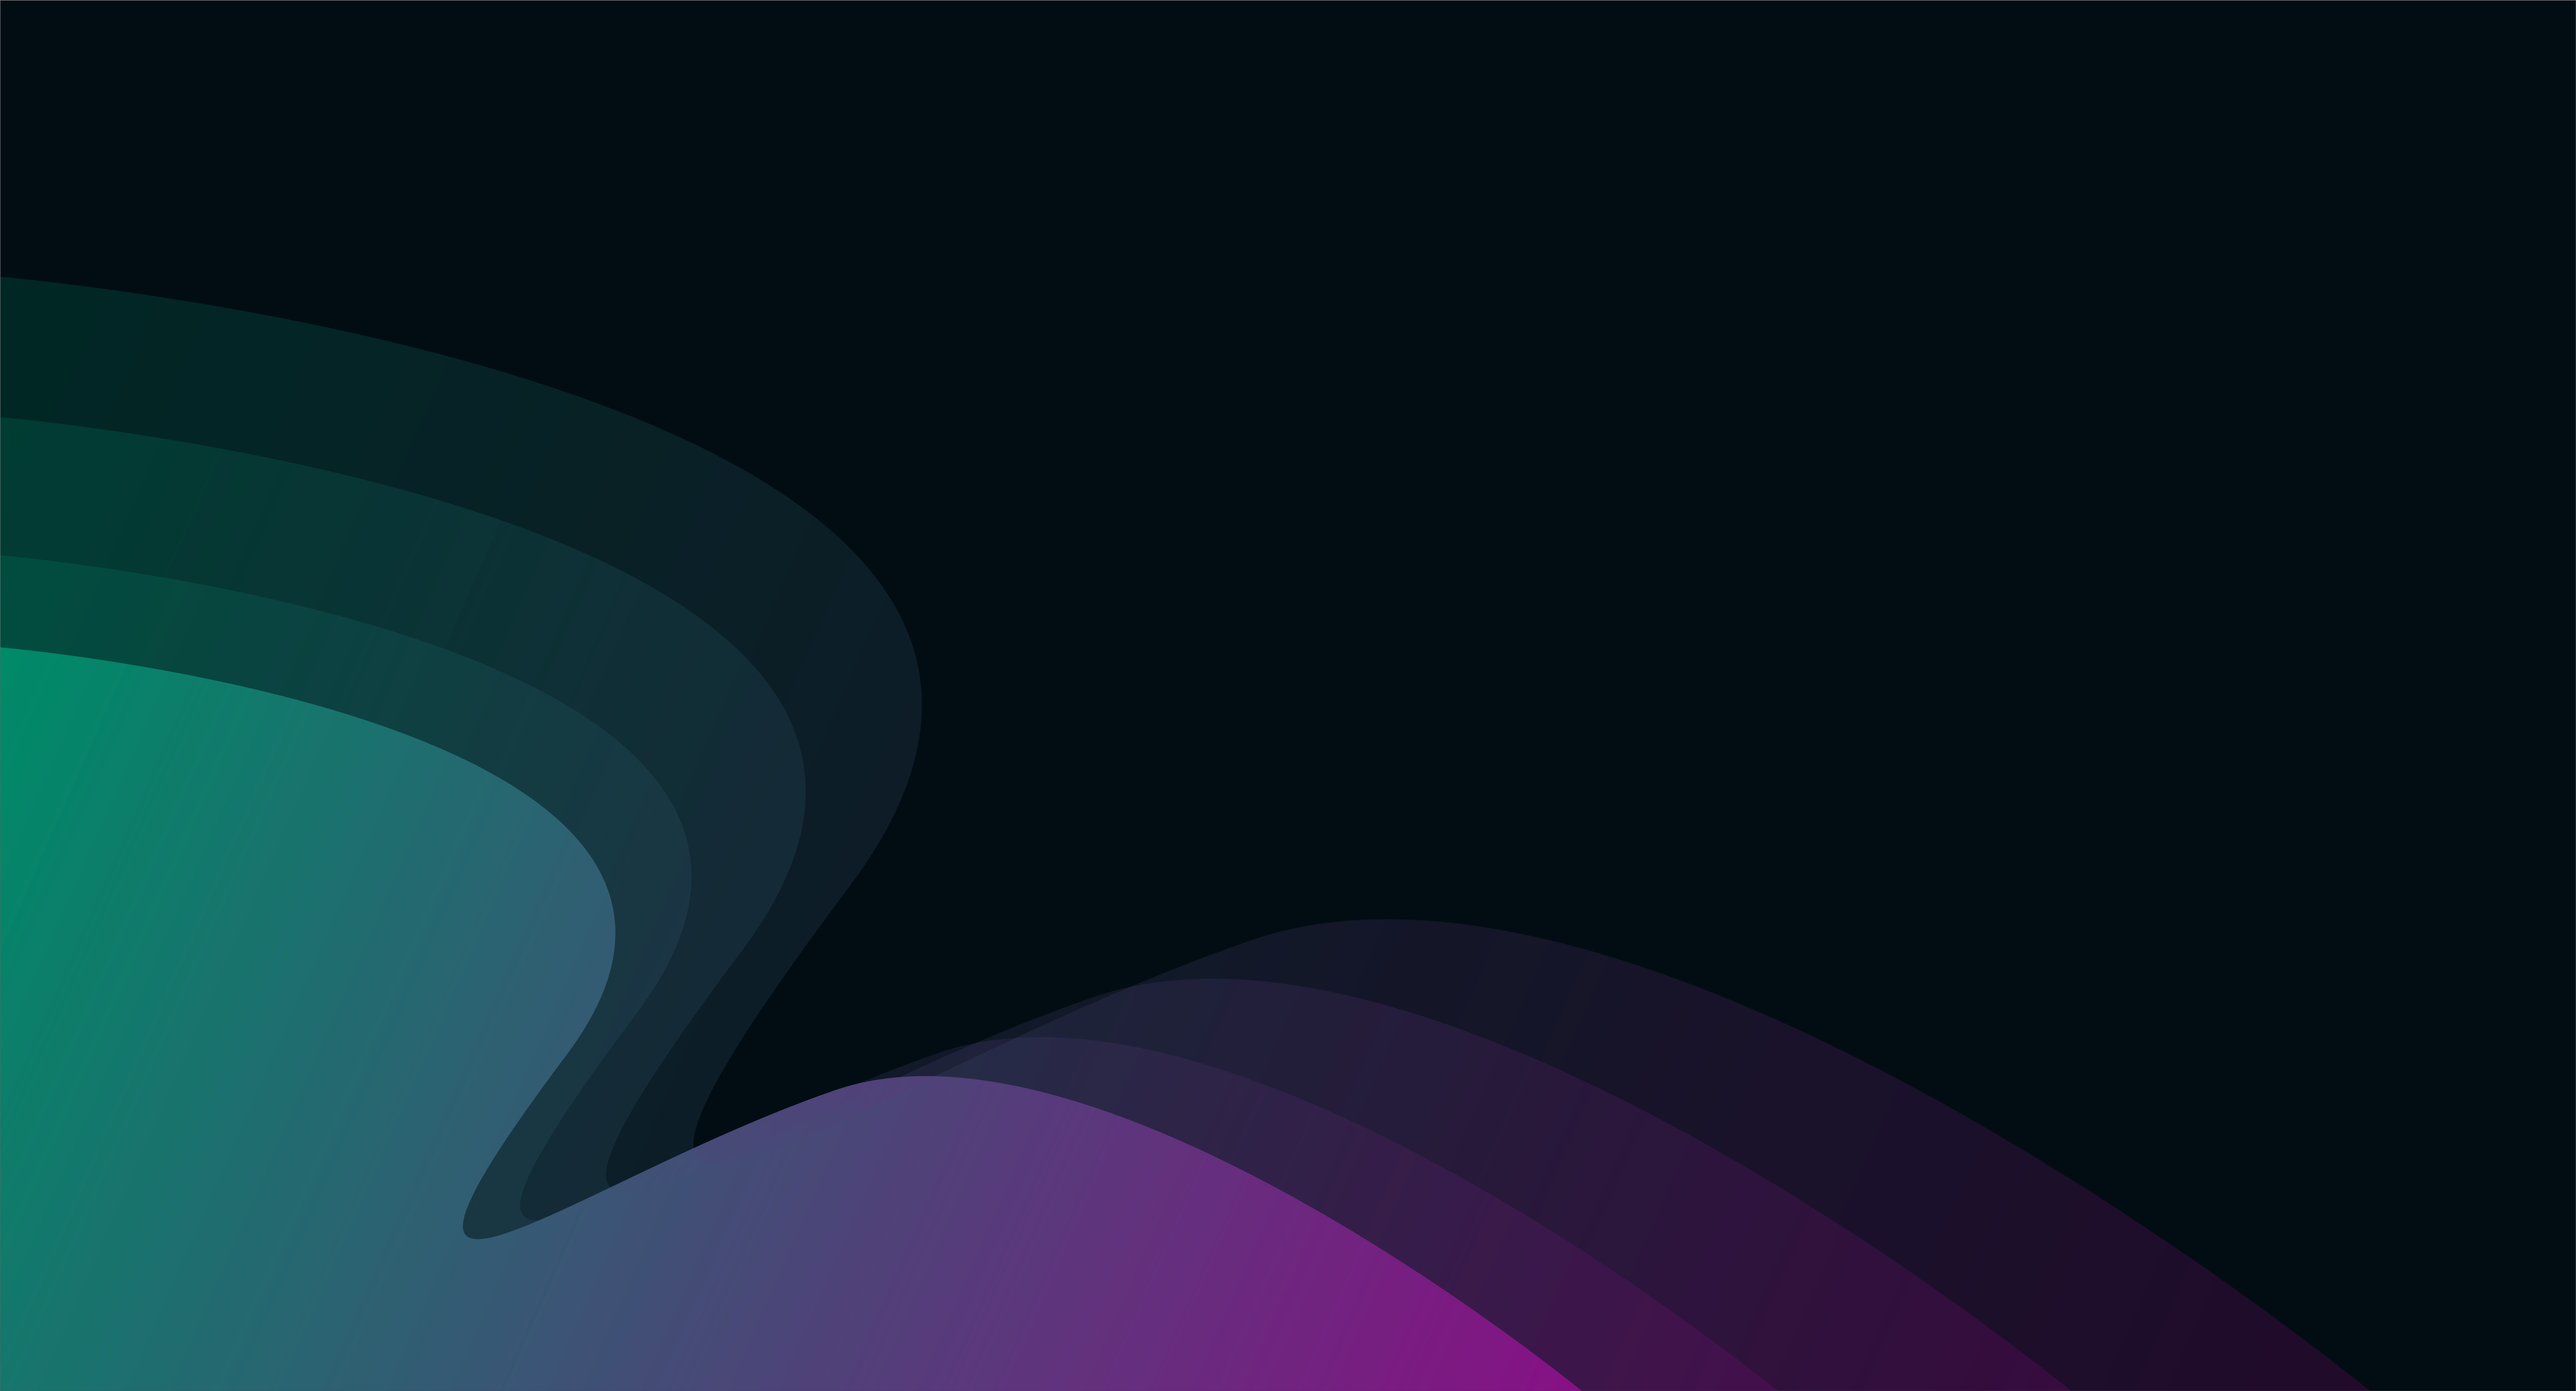
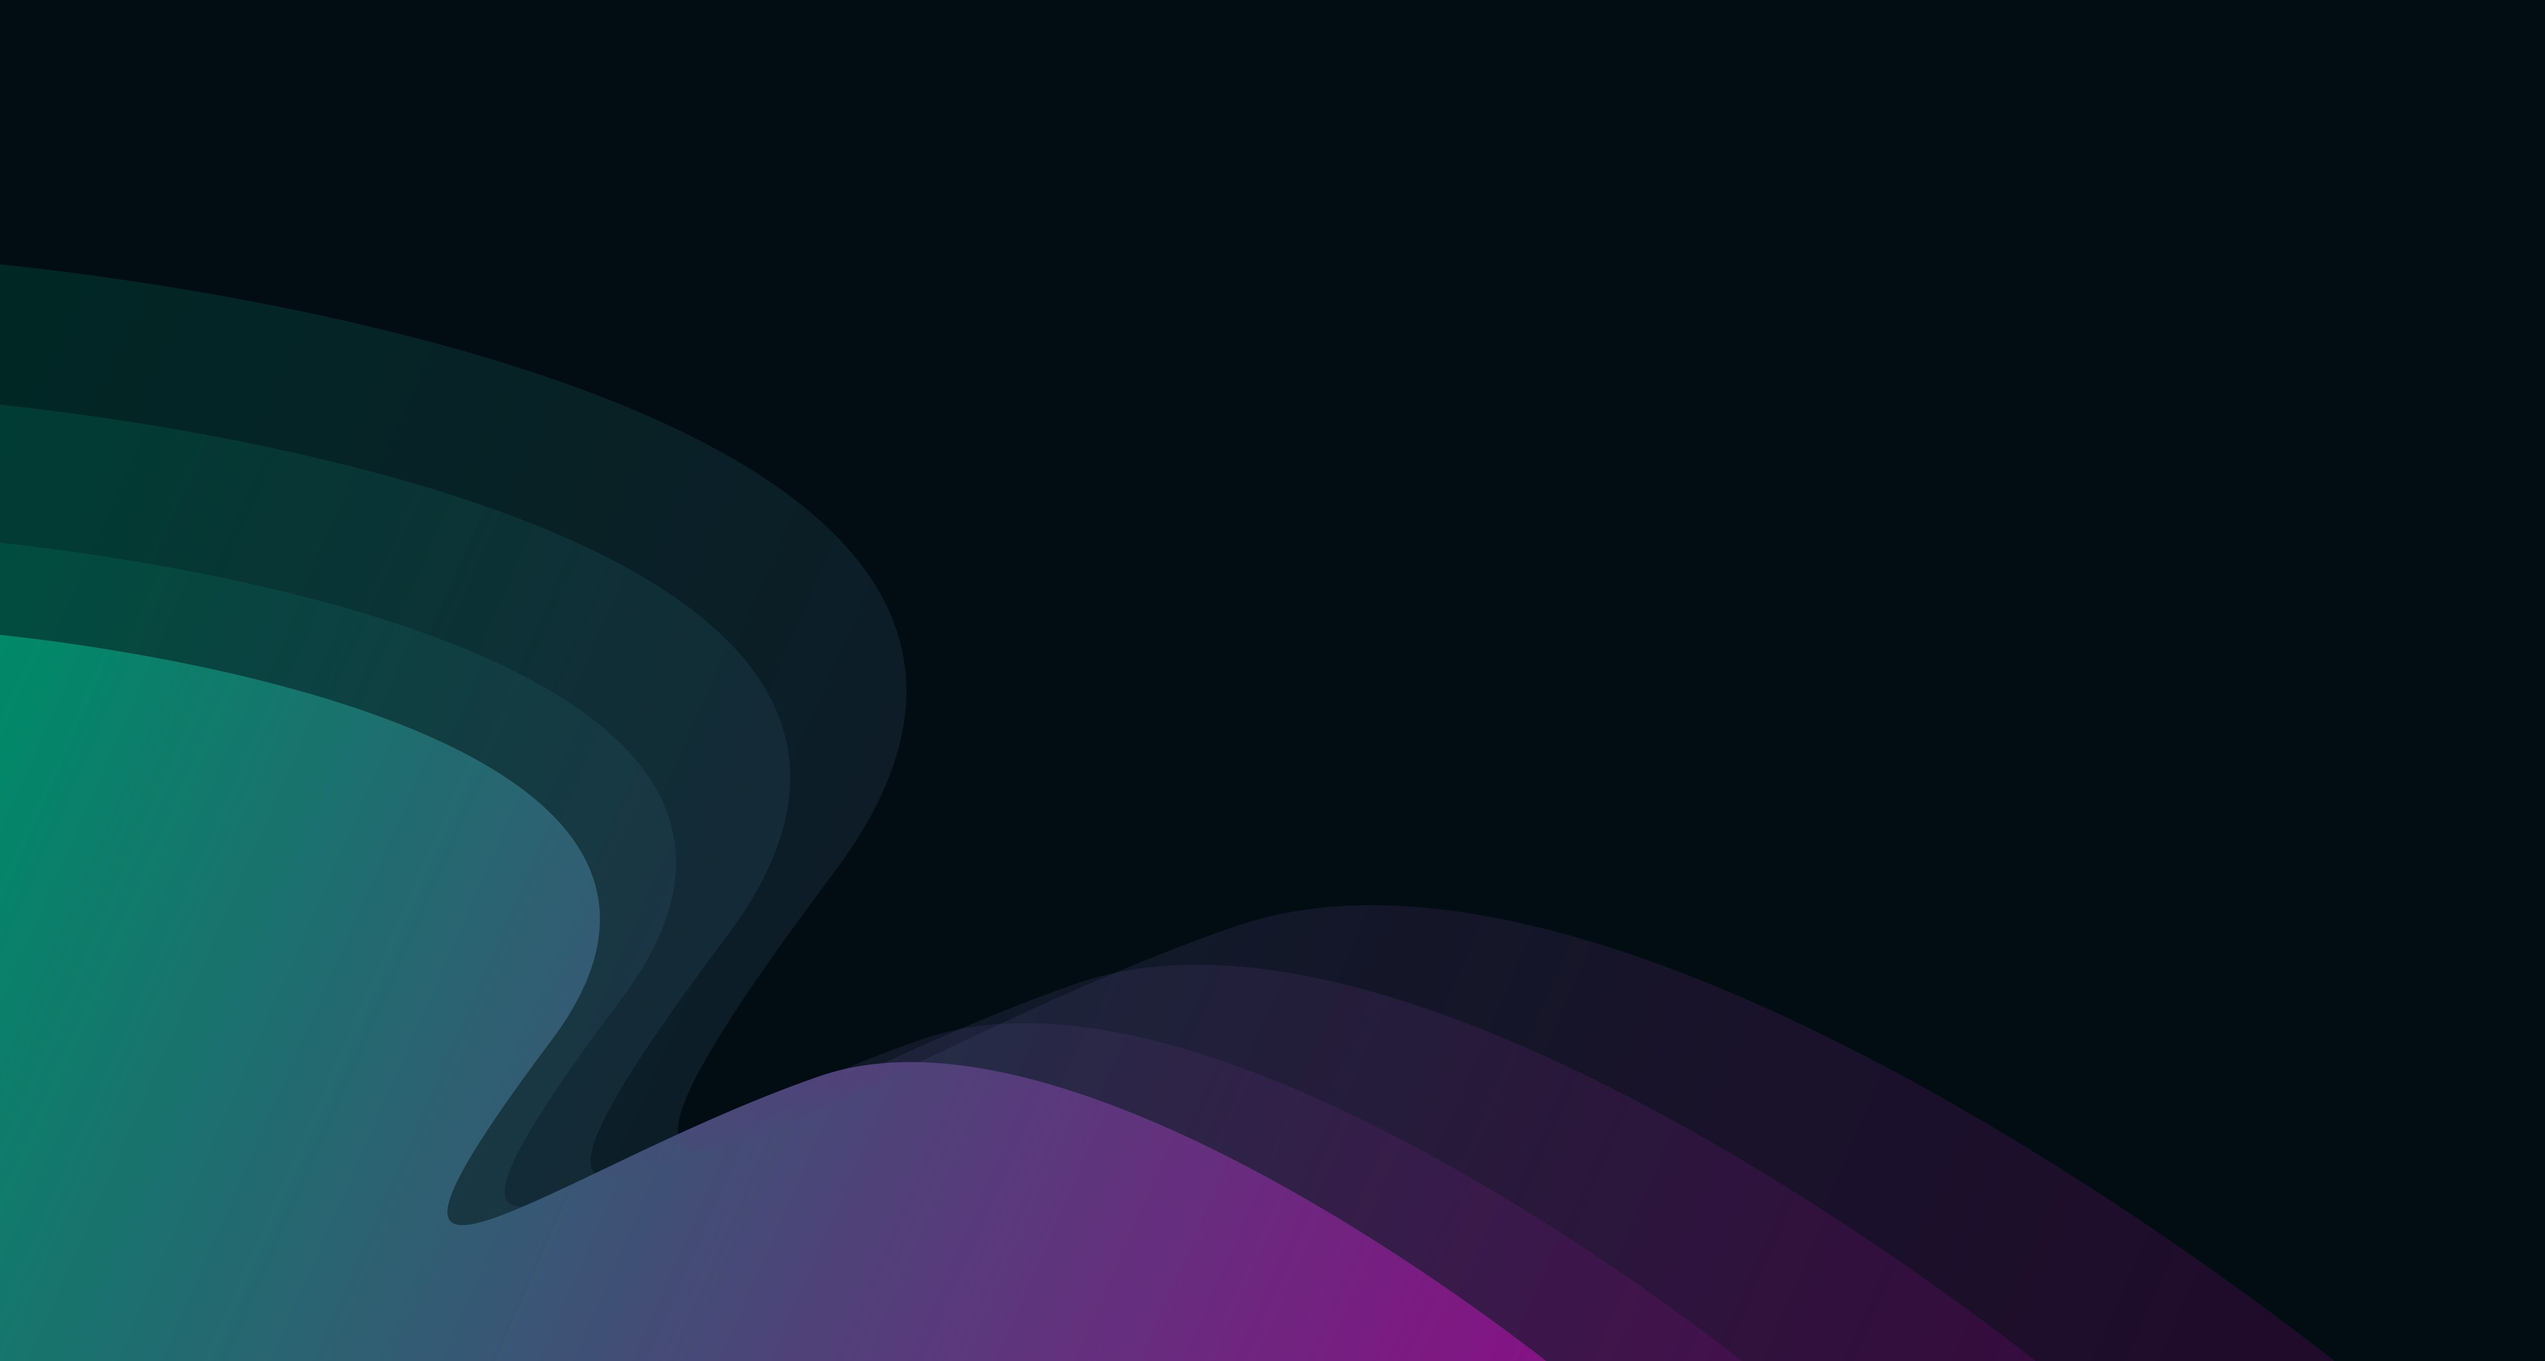
changes

diff --git a/preproc.scss b/preproc.scss
@@ -21,8 +21,8 @@ body {
     background-image: url(bg.jpg);
     background-repeat: no-repeat;
     background-position: bottom;
-    // background-size: cover;
-    // background-attachment: fixed;
+    background-size: cover;
+    background-attachment: fixed;
     min-height: 100vh;
 }
 

diff --git a/preprocstlye.css b/preprocstlye.css
@@ -3,6 +3,8 @@ body {
   background-image: url(bg.jpg);
   background-repeat: no-repeat;
   background-position: bottom;
+  background-size: cover;
+  background-attachment: fixed;
   min-height: 100vh;
 }
 
